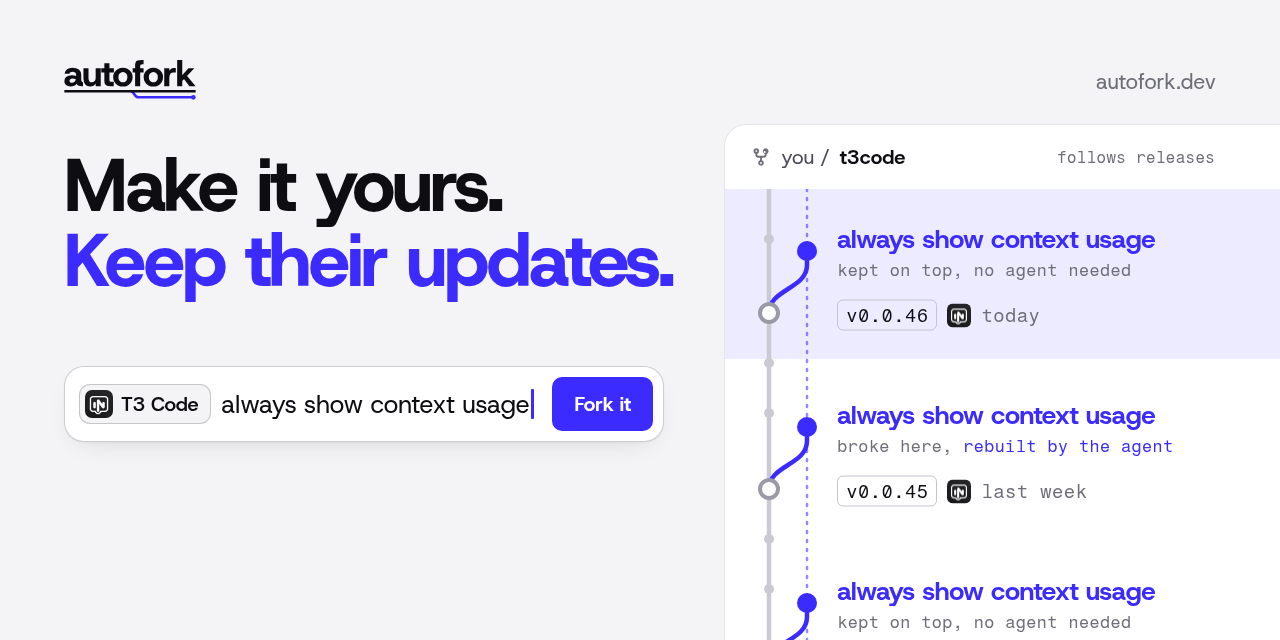
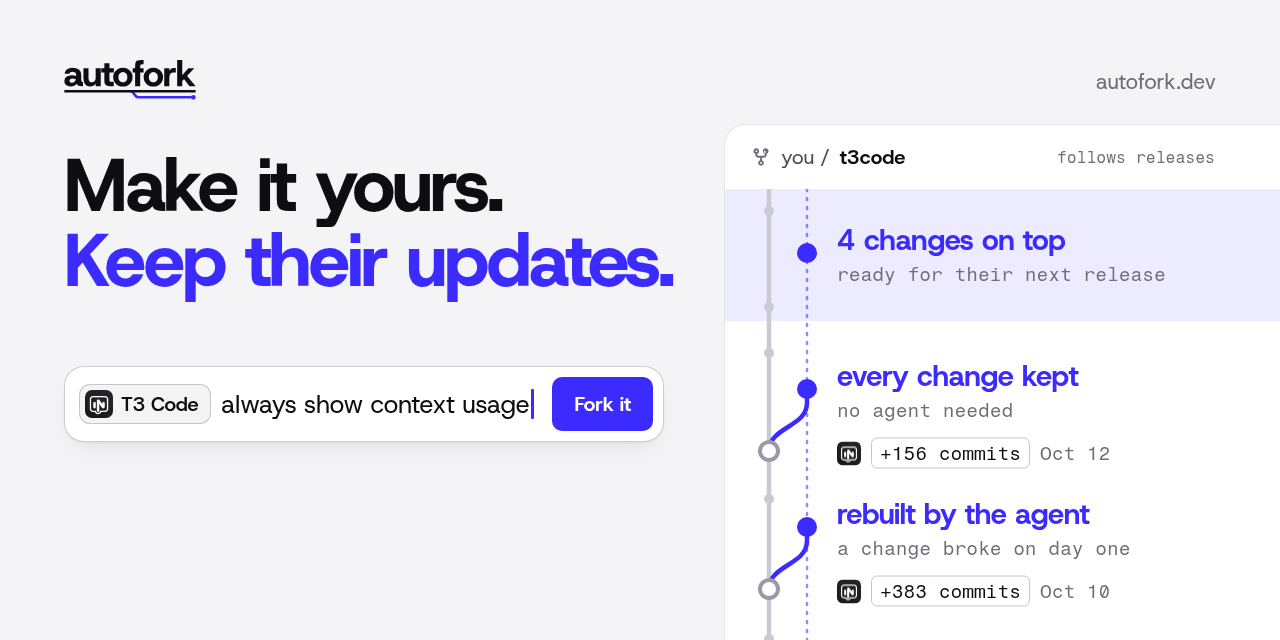
OG image: each line once; the T3 Code fork's card shows three true moments (4 changes on top, every change kept through 156 commits, a change rebuilt by the agent on day one) instead of the composer's change three more times
Claude-Session: https://claude.ai/code/session_019LfNib4wiccouy86DnkCfF

diff --git a/site/og.html b/site/og.html
@@ -36,8 +36,8 @@ svg.g { position: absolute; left: 0; top: 64px; }
 .node { fill: var(--you); }
 
 .row { position: absolute; left: 112px; transform: translateY(-50%); white-space: nowrap; display: flex; flex-direction: column; gap: 4px; }
-.row b { font-size: 26px; font-weight: 700; letter-spacing: -0.015em; color: var(--you); }
-.row small { font: 400 17px "Fragment Mono", monospace; color: var(--ink-3); }
+.row b { font-size: 29px; font-weight: 700; letter-spacing: -0.015em; color: var(--you); }
+.row small { font: 400 19px "Fragment Mono", monospace; color: var(--ink-3); }
 .row.rel { flex-direction: row; gap: 10px; font-size: 19px; }
 .row.rel img { width: 24px; height: 24px; border-radius: 6px; }
 .band { position: absolute; left: 0; right: 0; background: var(--you-soft); }
@@ -63,30 +63,27 @@ svg.g { position: absolute; left: 0; top: 64px; }
     <span class="name"><svg viewBox="0 0 16 16"><path d="M5 3.25a.75.75 0 1 1-1.5 0 .75.75 0 0 1 1.5 0Zm0 2.122a2.25 2.25 0 1 0-1.5 0v.878A2.25 2.25 0 0 0 5.75 8.5h1.5v2.128a2.251 2.251 0 1 0 1.5 0V8.5h1.5a2.25 2.25 0 0 0 2.25-2.25v-.878a2.25 2.25 0 1 0-1.5 0v.878a.75.75 0 0 1-.75.75h-4.5A.75.75 0 0 1 5 6.25v-.878Zm3.75 7.378a.75.75 0 1 1-1.5 0 .75.75 0 0 1 1.5 0Zm3-8.75a.75.75 0 1 1-1.5 0 .75.75 0 0 1 1.5 0Z"/></svg>you / <b>t3code</b></span>
     <small>follows releases</small>
   </div>
-  <div class="band" style="top:64px;height:170px"></div>
+  <div class="band" style="top:64px;height:132px"></div>
   <svg class="g" width="600" height="500" viewBox="0 0 600 500"><g id="graph"></g></svg>
   <div id="rows"></div>
 </div>
 
 <script>
   const A = 44, B = 82, head = 64, lift = 62
-  const releases = [
-    { y: 124, tag: "v0.0.46", when: "today", note: "kept on top, no agent needed" },
-    { y: 300, tag: "v0.0.45", when: "last week", note: "broke here, <span class=agent>rebuilt by the agent</span>" },
-    { y: 476, tag: "v0.0.44", when: "2 weeks ago", note: "kept on top, no agent needed" },
+  const rows = [
+    { y: 64, title: "4 changes on top", note: "ready for their next release" },
+    { y: 200, title: "every change kept", note: "no agent needed", tag: "+156 commits", when: "Oct 12" },
+    { y: 338, title: "rebuilt by the agent", note: "a change broke on day one", tag: "+383 commits", when: "Oct 10" },
   ]
   const peel = (x1, y1, x2, y2) => `M${x1} ${y1}C${x1} ${(y1 + y2) / 2} ${x2} ${(y1 + y2) / 2} ${x2} ${y2}`
   let g = `<path class="intent" d="M${B} 0V500"/><path class="trunk" d="M${A} 0V500"/>`
-  for (const r of releases) {
-    const y = r.y - lift
-    g += `<path class="yours" d="${peel(A, r.y, B, y + 14)}V${y}"/>`
-    for (const d of [-74, 50, 100]) if (r.y + d > 0 && (d > 0 || r === releases[0])) g += `<circle class="commit" cx="${A}" cy="${r.y + d}" r="5"/>`
-  }
-  for (const r of releases) g += `<circle class="rel" cx="${A}" cy="${r.y}" r="9"/><circle class="node" cx="${B}" cy="${r.y - lift}" r="10"/>`
+  for (const y of [22, 118, 164, 310, 450, 494]) g += `<circle class="commit" cx="${A}" cy="${y}" r="5"/>`
+  for (const r of rows) if (r.tag) g += `<path class="yours" d="${peel(A, r.y + lift, B, r.y + 14)}V${r.y}"/><circle class="rel" cx="${A}" cy="${r.y + lift}" r="9"/>`
+  for (const r of rows) g += `<circle class="node" cx="${B}" cy="${r.y}" r="10"/>`
   document.querySelector("#graph").innerHTML = g
-  document.querySelector("#rows").innerHTML = releases.map((r) => `
-    <div class="row" style="top:${head + r.y - lift}px"><b>always show context usage</b><small>${r.note}</small></div>
-    <div class="row rel" style="top:${head + r.y + 2}px"><span class="tag">${r.tag}</span><img src="/brand/logo/vendor/t3code.png" alt="">${r.when}</div>`).join("")
+  document.querySelector("#rows").innerHTML = rows.map((r) => `
+    <div class="row" style="top:${head + r.y}px"><b>${r.title}</b><small>${r.note}</small></div>
+    ${r.tag ? `<div class="row rel" style="top:${head + r.y + lift + 2}px"><img src="/brand/logo/vendor/t3code.png" alt=""><span class="tag">${r.tag}</span>${r.when}</div>` : ""}`).join("")
 </script>
 </body>
 </html>

diff --git a/copy/MESSAGING.md b/copy/MESSAGING.md
@@ -69,8 +69,10 @@ The site ships the same day as the product. These lines describe the product Bas
 - **Big:** Make it yours. / Keep their updates.
 - **Small:** autofork.dev
 - **Alt:** autofork: Make it yours. Keep their updates.
+- **The composer**, once: T3 Code, always show context usage, Fork it.
+- **The T3 Code fork's card**, three true moments from `facts.json` and `launch.md`, newest on top: 4 changes on top, ready for their next release; every change kept, +156 commits, Oct 12; rebuilt by the agent, a change broke on day one, +383 commits, Oct 10.
 
-Nothing else. Keep the bottom fifth clear for X's title bar.
+No line appears twice (Bassim, Oct 13: "the open graph image repeats itself... that doesn't look all that good"). Keep the bottom fifth clear for X's title bar.
 
 ## What it isn't
 
